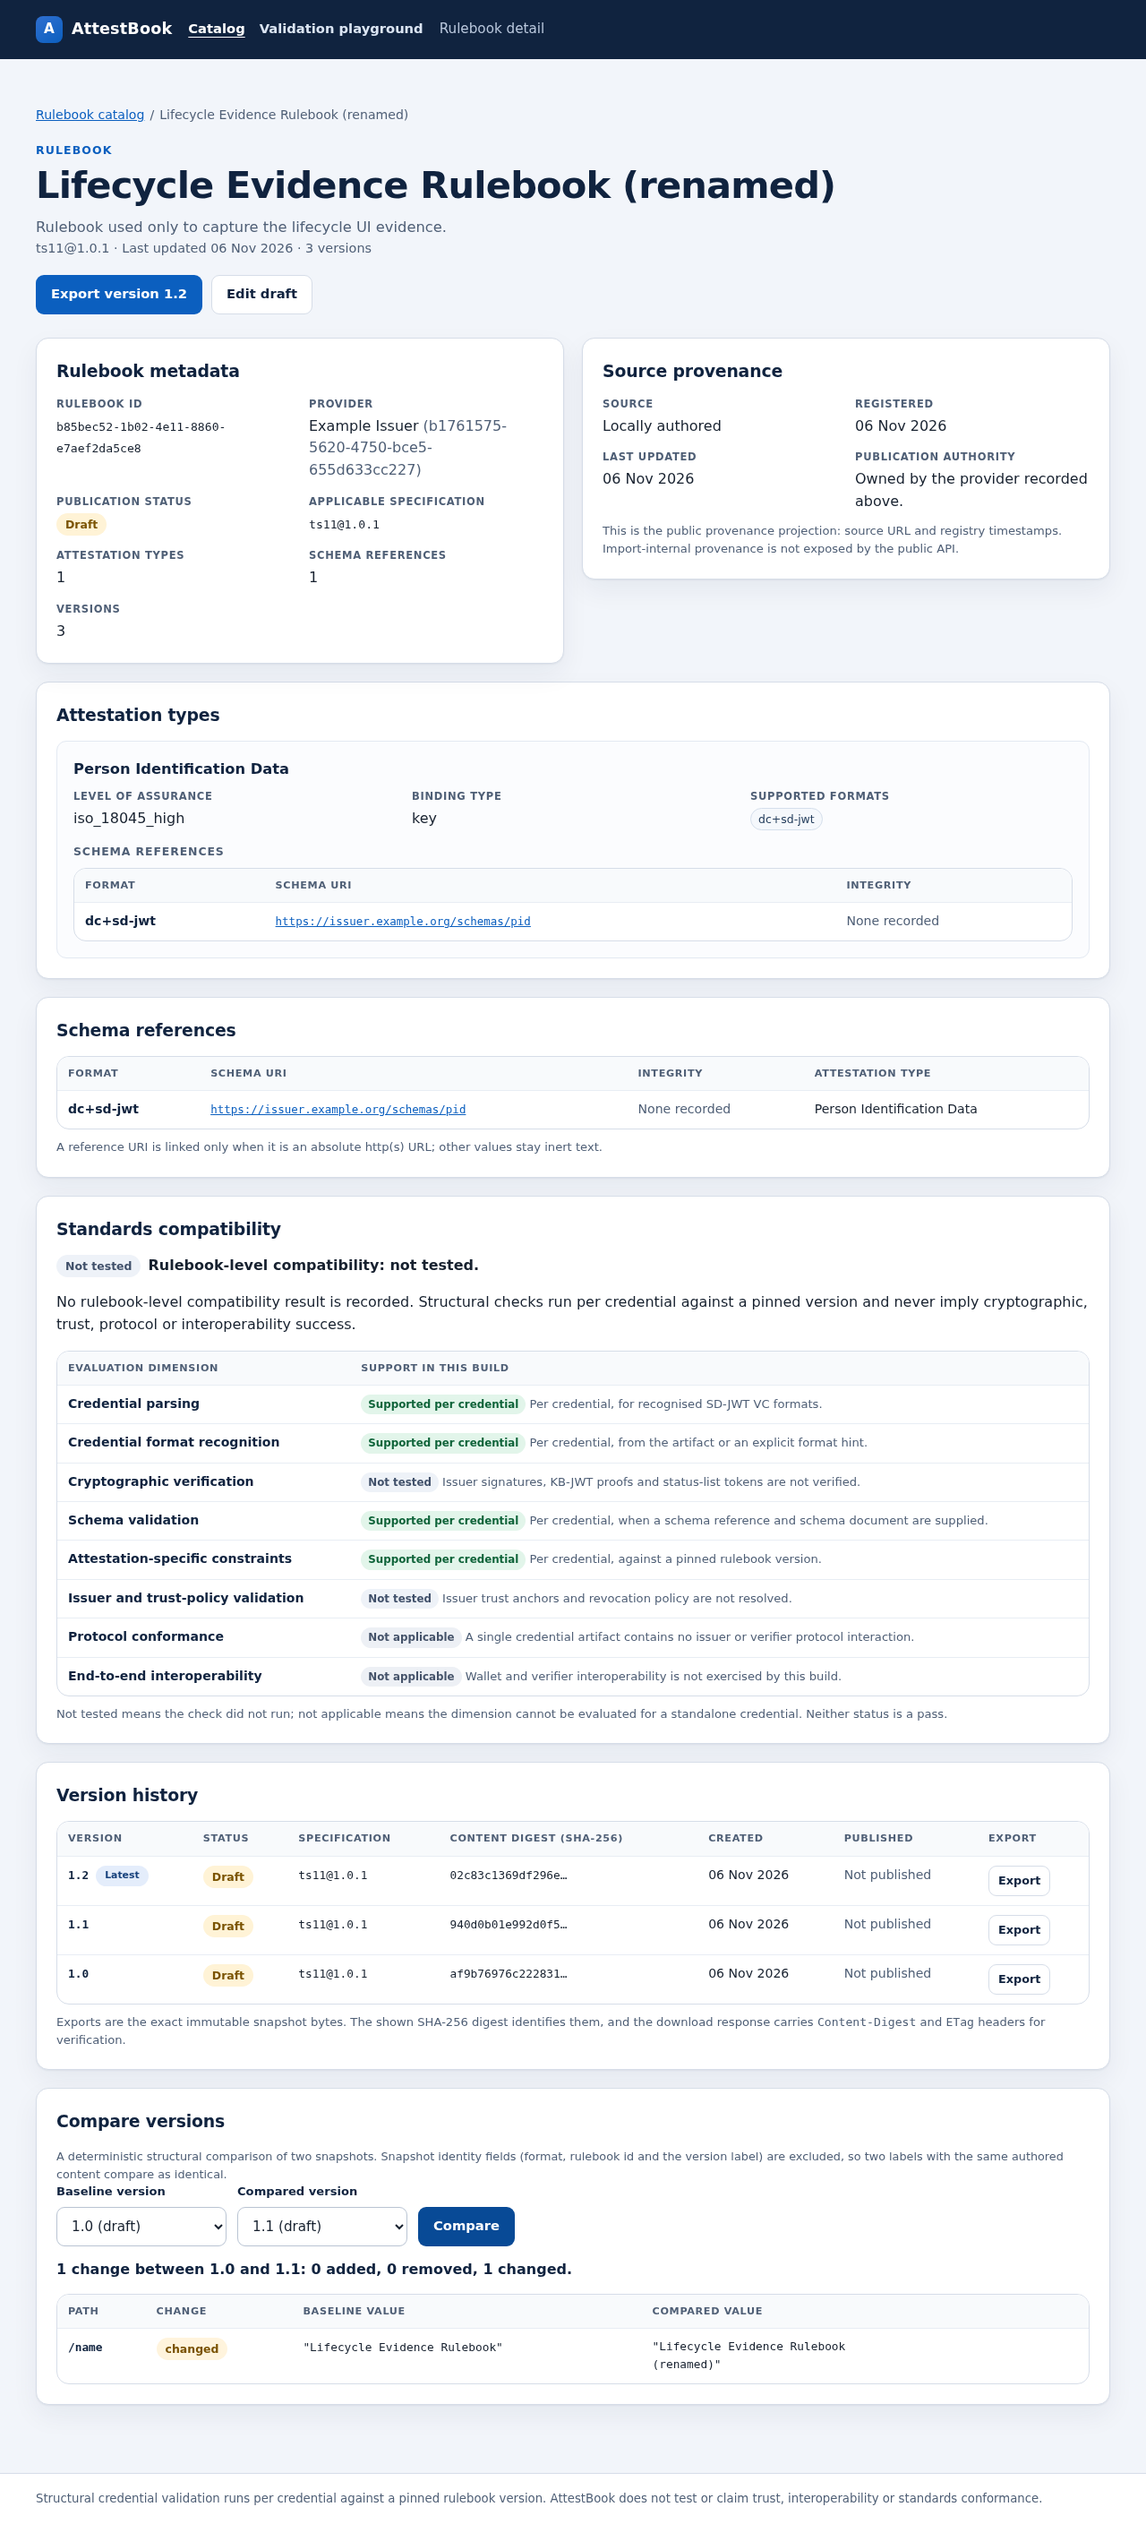
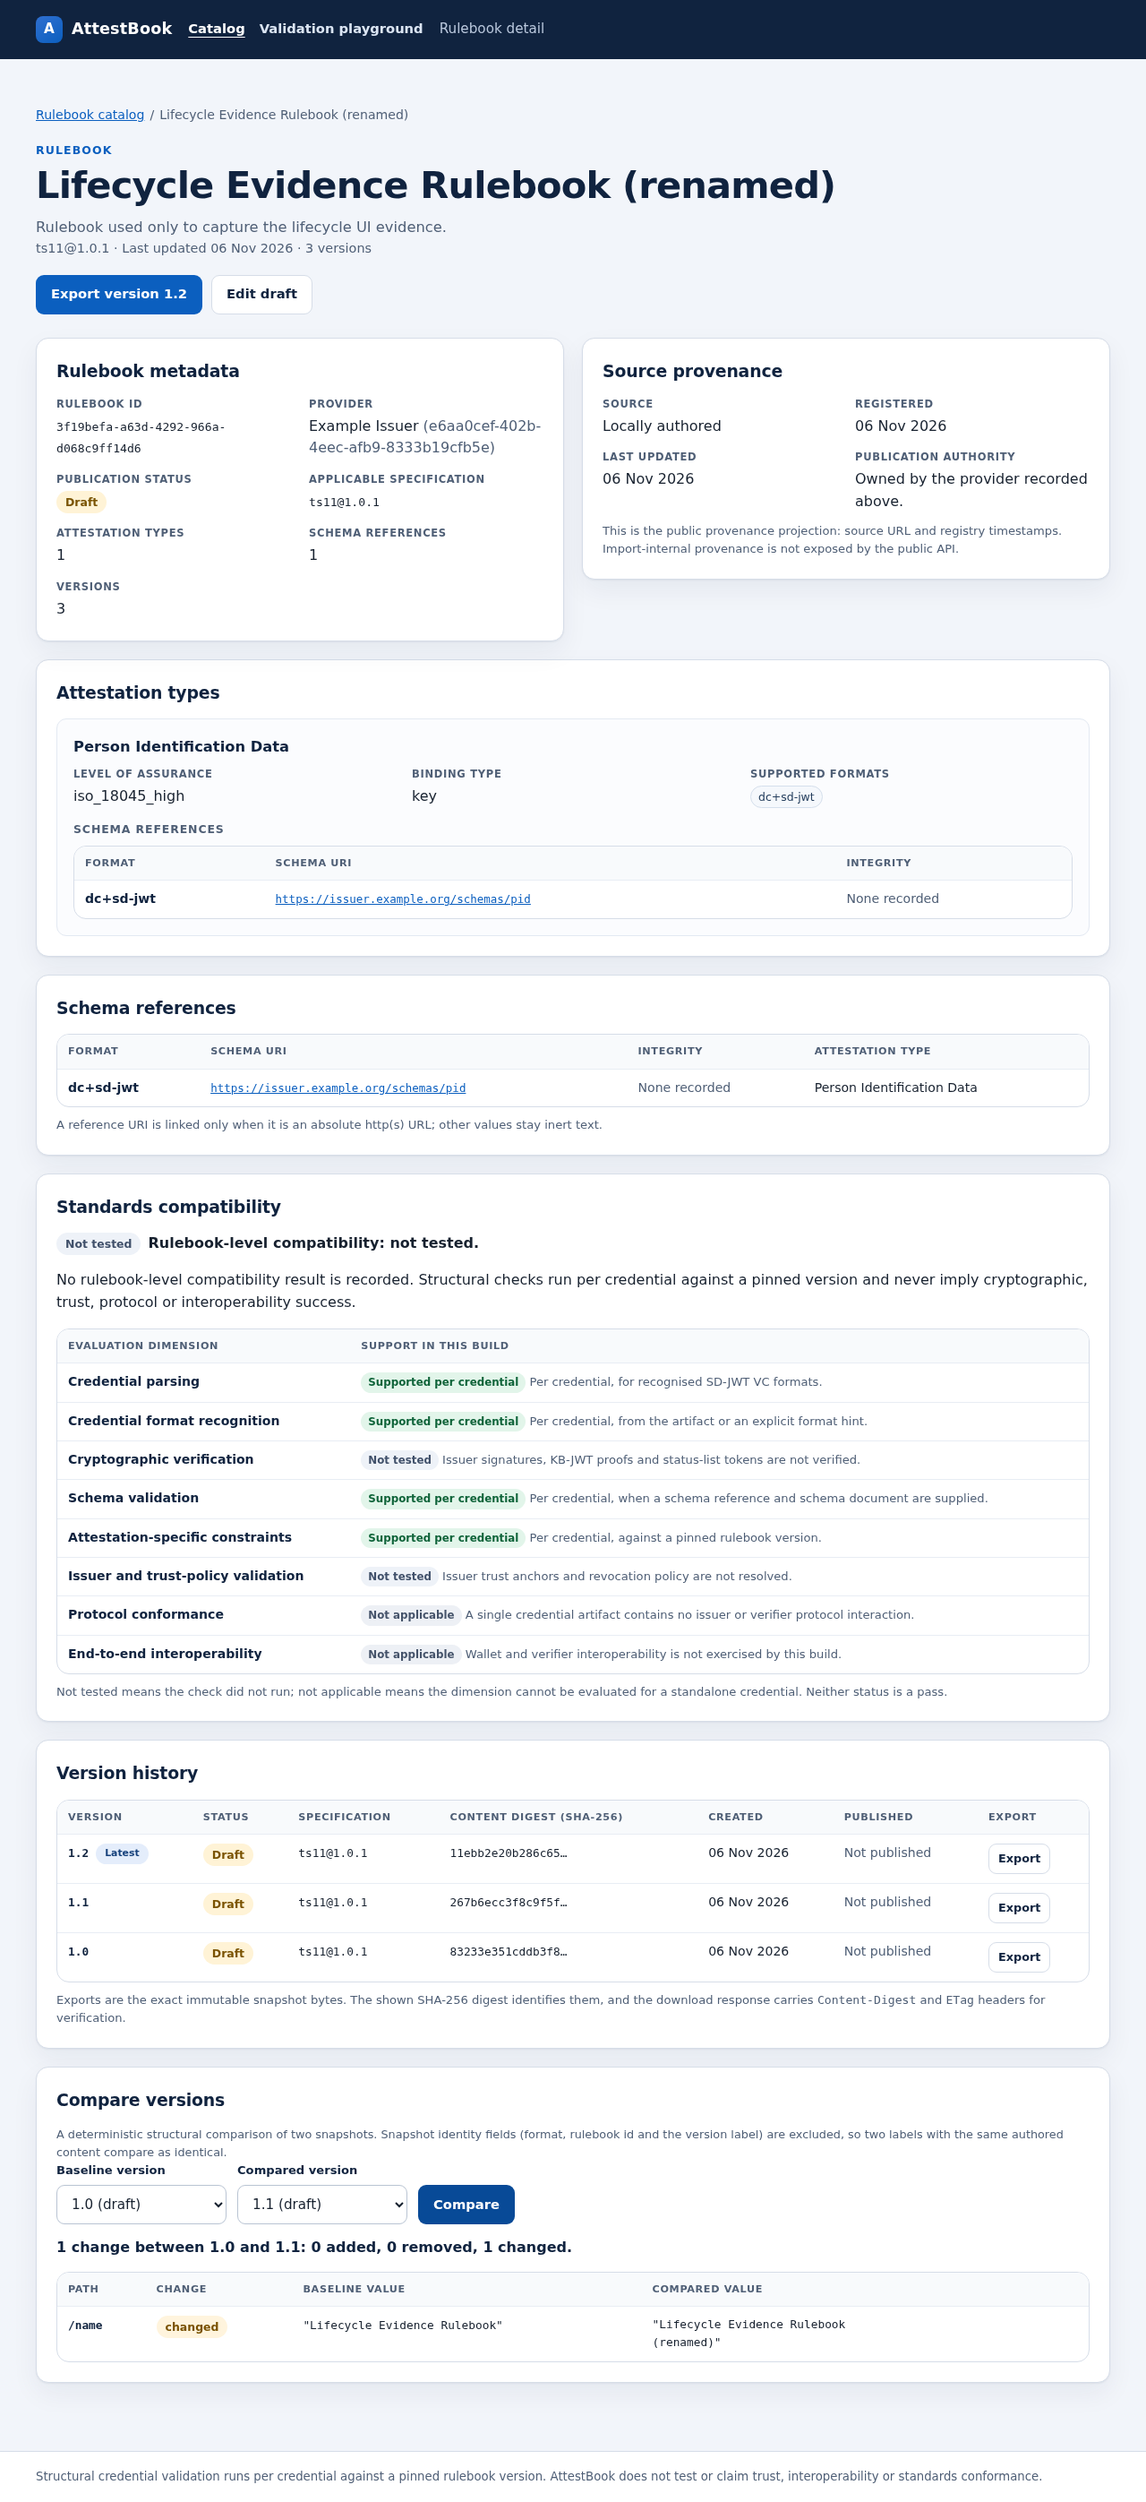
fix(lifecycle): align readiness with the publish transition
Readiness now receives the owning rulebook status and reports whether publish may run, using the same transition rule. The registry supplies the stored artifact and working-copy bytes exactly as publish builds them, removing the duplicated snapshot construction, and the leftover-draft-on-published-rulebook case is documented and tested.

diff --git a/src/api/lifecycle.test.ts b/src/api/lifecycle.test.ts
@@ -223,6 +223,7 @@ describe('publication readiness API', () => {
     expect(ready.data.ready).toBe(true)
     expect(ready.data.checks.map((check) => check.id)).toEqual([
       'draft_version',
+      'rulebook_status',
       'snapshot_integrity',
       'snapshot_current',
       'content_valid',
@@ -280,6 +281,67 @@ describe('publication readiness API', () => {
       token,
     )
     expect(missingVersion.status).toBe(404)
+  })
+})
+
+describe('readiness matches the publish transition', () => {
+  test('a leftover draft on a published rulebook is not ready and cannot be published', async () => {
+    const { app, registry, rulebookId, token } = setup()
+
+    const create = (version: string) =>
+      app.request(`/api/v1/rulebooks/${rulebookId}/versions`, {
+        method: 'POST',
+        headers: headers(token),
+        body: JSON.stringify({ version }),
+      })
+
+    expect((await create('1.1')).status).toBe(201)
+    const firstPublish = await postEmpty(
+      app,
+      `/api/v1/rulebooks/${rulebookId}/versions/1.1/publish`,
+      token,
+    )
+    expect(firstPublish.status).toBe(200)
+    expect(registry.getRulebook(rulebookId)?.publicationStatus).toBe('published')
+
+    const readiness = await app.request(
+      `/api/v1/rulebooks/${rulebookId}/versions/1.0/publication-readiness`,
+    )
+    expect(readiness.status).toBe(200)
+    const body = await json<{ data: PublicationReadinessResource }>(readiness)
+    assertSchema('PublicationReadinessResponse', body)
+    expect(body.data.ready).toBe(false)
+    const rulebookStatus = body.data.checks.find((check) => check.id === 'rulebook_status')
+    expect(rulebookStatus?.status).toBe('fail')
+    expect(
+      body.data.checks
+        .filter((check) => check.id !== 'rulebook_status')
+        .every((check) => check.status === 'pass'),
+    ).toBe(true)
+
+    const rejected = await postEmpty(
+      app,
+      `/api/v1/rulebooks/${rulebookId}/versions/1.0/publish`,
+      token,
+    )
+    expect(rejected.status).toBe(409)
+    expect((await errorJson(rejected)).error.code).toBe('immutable')
+    expect(registry.getRulebookVersion(rulebookId, '1.1')?.status).toBe('published')
+
+    // Creating the next version reopens the working copy; the leftover draft is
+    // then publishable again under the same transition policy.
+    expect((await create('1.2')).status).toBe(201)
+    const reopened = await app.request(
+      `/api/v1/rulebooks/${rulebookId}/versions/1.0/publication-readiness`,
+    )
+    expect((await json<{ data: PublicationReadinessResource }>(reopened)).data.ready).toBe(true)
+    const published = await postEmpty(
+      app,
+      `/api/v1/rulebooks/${rulebookId}/versions/1.0/publish`,
+      token,
+    )
+    expect(published.status).toBe(200)
+    expect(registry.getRulebookVersion(rulebookId, '1.1')?.status).toBe('historical')
   })
 })
 

diff --git a/src/api/routes.ts b/src/api/routes.ts
@@ -20,11 +20,7 @@ import type {
   CreateRulebookVersionInput,
   ReplaceDraftContentInput,
 } from '../registry/types'
-import {
-  buildRulebookVersionDocument,
-  parseRulebookVersionDocument,
-  serializeRulebookVersion,
-} from '../registry/versioning'
+import { parseRulebookVersionDocument } from '../registry/versioning'
 import { CREDENTIAL_VALIDATION_PATH, type CredentialValidationService } from '../validation'
 
 import { apiError } from './errors'
@@ -1199,25 +1195,16 @@ function getRulebookPublicationReadinessHandler(dependencies: ApiDependencies): 
     const registry = requireRegistry(dependencies)
     const rulebookId = context.req.param('rulebookId') ?? ''
     const label = context.req.param('version') ?? ''
-    const content = registry.getRulebookVersionContent(rulebookId, label)
-    if (content === null) {
+    // The registry builds the stored artifact and the current working-copy
+    // bytes exactly as publish does, so readiness cannot drift from publication.
+    const candidate = registry.getPublicationCandidate(rulebookId, label)
+    if (candidate === null) {
       throw apiError(404, 'not_found', 'The requested rulebook version does not exist.')
     }
-
-    // The current working copy is serialized exactly as a new snapshot would
-    // be, under the same label, so the freshness check compares like with like.
-    const draft = registry.getDraftContent(rulebookId)
-    const currentBytes = serializeRulebookVersion(
-      buildRulebookVersionDocument({
-        rulebook: draft.rulebook,
-        version: content.version.version,
-        specVersion: draft.rulebook.applicableSpec,
-        attestations: draft.attestations,
-        schemaReferences: draft.schemaReferences,
-      }),
-    )
+    const { rulebook, content, currentBytes } = candidate
     const readiness = assessPublicationReadiness({
       version: content.version,
+      rulebookStatus: rulebook.publicationStatus,
       bytes: content.bytes,
       currentBytes,
       document: parseRulebookVersionDocument(content.bytes),

diff --git a/src/lifecycle/readiness.ts b/src/lifecycle/readiness.ts
@@ -18,7 +18,8 @@
 
 import { validateDraftContent } from '../editor'
 import { sha256Hex } from '../registry/digest'
-import type { RulebookVersion } from '../registry/types'
+import { isRulebookTransitionAllowed } from '../registry/transitions'
+import type { PublicationStatus, RulebookVersion } from '../registry/types'
 import type { RulebookVersionDocument } from '../registry/versioning'
 
 export const PUBLICATION_READINESS_CHECK_STATUSES = [
@@ -32,6 +33,7 @@ export type PublicationReadinessCheckStatus = (typeof PUBLICATION_READINESS_CHEC
 /** Stable check identifiers of the readiness contract. */
 export const PUBLICATION_READINESS_CHECK_IDS = [
   'draft_version',
+  'rulebook_status',
   'snapshot_integrity',
   'snapshot_current',
   'content_valid',
@@ -56,6 +58,8 @@ export interface PublicationReadiness {
 
 export interface PublicationReadinessInput {
   readonly version: RulebookVersion
+  /** Current working-copy status of the rulebook that owns the version. */
+  readonly rulebookStatus: PublicationStatus
   /** Exact stored snapshot bytes of the version. */
   readonly bytes: Uint8Array
   /** Snapshot bytes the current working copy would freeze under this label. */
@@ -100,6 +104,18 @@ export function assessPublicationReadiness(input: PublicationReadinessInput): Pu
           'draft_version',
           'fail',
           `The version is ${version.status}; only a draft version can be published, and published or historical artifacts are immutable.`,
+        ),
+  )
+
+  checks.push(
+    isRulebookTransitionAllowed(input.rulebookStatus, 'published')
+      ? check('rulebook_status', 'pass', 'The rulebook working copy can be published.')
+      : check(
+          'rulebook_status',
+          'fail',
+          input.rulebookStatus === 'published'
+            ? 'The rulebook is already published; create the next draft version before publishing another draft.'
+            : `The rulebook is ${input.rulebookStatus}; its versions cannot be published.`,
         ),
   )
 

diff --git a/src/lifecycle/readiness.test.ts b/src/lifecycle/readiness.test.ts
@@ -7,7 +7,7 @@
 import { describe, expect, test } from 'bun:test'
 
 import { sha256Hex } from '../registry/digest'
-import type { RulebookVersion } from '../registry/types'
+import type { PublicationStatus, RulebookVersion } from '../registry/types'
 import { serializeRulebookVersion, type RulebookVersionDocument } from '../registry/versioning'
 
 import { assessPublicationReadiness } from './readiness'
@@ -64,10 +64,12 @@ function assess(
   options: {
     readonly version?: Partial<RulebookVersion>
     readonly current?: RulebookVersionDocument
+    readonly rulebookStatus?: PublicationStatus
   } = {},
 ) {
   return assessPublicationReadiness({
     version: record(document, options.version),
+    rulebookStatus: options.rulebookStatus ?? 'draft',
     bytes: serializeRulebookVersion(document),
     currentBytes: serializeRulebookVersion(options.current ?? document),
     document,
@@ -93,8 +95,19 @@ describe('publication readiness', () => {
       'pass',
       'pass',
       'pass',
+      'pass',
     ])
     expect(result.limitations.length).toBeGreaterThan(0)
+  })
+
+  test('a draft on an already-published rulebook is not ready', () => {
+    for (const status of ['published', 'historical'] as const) {
+      const result = assess(snapshot(), { rulebookStatus: status })
+
+      expect(result.ready).toBe(false)
+      expect(statusOf(result, 'rulebook_status')).toBe('fail')
+      expect(result.checks.filter((check) => check.status === 'fail')).toHaveLength(1)
+    }
   })
 
   test('a stale draft snapshot blocks publication until it is refreshed', () => {
@@ -121,6 +134,7 @@ describe('publication readiness', () => {
     const document = snapshot()
     const result = assessPublicationReadiness({
       version: record(document, { contentDigest: 'f'.repeat(64) }),
+      rulebookStatus: 'draft',
       bytes: serializeRulebookVersion(document),
       currentBytes: serializeRulebookVersion(document),
       document,

diff --git a/ui/src/RulebookDraftEditorPage.test.tsx b/ui/src/RulebookDraftEditorPage.test.tsx
@@ -311,6 +311,42 @@ describe('rulebook draft editor', () => {
     expect(screen.getByText('This rulebook is published.')).toBeVisible()
   })
 
+  test('keeps publish disabled when the readiness rulebook-status check fails', async () => {
+    const api = editor({
+      getPublicationReadiness: vi.fn(async () =>
+        readiness({
+          ready: false,
+          checks: [
+            {
+              id: 'rulebook_status',
+              status: 'fail',
+              message:
+                'The rulebook is already published; create the next draft version before publishing another draft.',
+            },
+          ],
+        }),
+      ),
+    })
+    const user = userEvent.setup()
+    renderEditor(api, { rulebookId: DRAFT.id, token: 'att_secret' })
+
+    await screen.findByRole('heading', { name: 'Edit PID Rulebook draft' })
+    const lifecycle = await screen.findByRole('region', {
+      name: 'Draft lifecycle and publication',
+    })
+    await user.click(within(lifecycle).getByRole('button', { name: 'Check readiness' }))
+
+    expect(
+      await within(lifecycle).findByText(/Not ready to publish: resolve the failed checks first/),
+    ).toBeVisible()
+    expect(
+      within(lifecycle).getByText(
+        'The rulebook is already published; create the next draft version before publishing another draft.',
+      ),
+    ).toBeVisible()
+    expect(within(lifecycle).getByRole('button', { name: 'Publish' })).toBeDisabled()
+  })
+
   test('freezes the working copy under a typed version label', async () => {
     const api = editor({ listVersions: vi.fn(async () => []) })
     const user = userEvent.setup()

diff --git a/src/registry/versions.test.ts b/src/registry/versions.test.ts
@@ -446,6 +446,28 @@ describe('publication lifecycle and immutability', () => {
     ).toThrow(/immutable/i)
   })
 
+  test('rejects publishing a leftover draft while the rulebook is published', () => {
+    const { registry } = setup()
+    const { token } = provision('a')
+    const rulebook = createSeedRulebook(registry, token.secret)
+    registry.createRulebookVersion(token.secret, rulebook.id, { version: '1.0' })
+    registry.createRulebookVersion(token.secret, rulebook.id, { version: '1.1' })
+    registry.publishRulebookVersion(token.secret, rulebook.id, '1.1')
+
+    expectRegistryError(
+      () => registry.publishRulebookVersion(token.secret, rulebook.id, '1.0'),
+      'immutable',
+    )
+    expect(registry.getRulebookVersion(rulebook.id, '1.1')?.status).toBe('published')
+
+    // Creating the next version reopens the working copy; only then can the
+    // leftover draft transition to published.
+    registry.createRulebookVersion(token.secret, rulebook.id, { version: '1.2' })
+    const published = registry.publishRulebookVersion(token.secret, rulebook.id, '1.0')
+    expect(published.status).toBe('published')
+    expect(registry.getRulebookVersion(rulebook.id, '1.1')?.status).toBe('historical')
+  })
+
   test('publishing a newer version supersedes the previous one and reopens the rulebook', () => {
     const { registry } = setup()
     const { token } = provision('a')

diff --git a/src/registry/registry.ts b/src/registry/registry.ts
@@ -989,6 +989,37 @@ export class Registry {
   }
 
   /**
+   * Inputs for a publication-readiness assessment, built exactly as
+   * `publishRulebookVersion` builds them: the stored artifact, the rulebook
+   * that owns it and the bytes the current working copy would freeze under the
+   * same label. Readiness and publication therefore read the same state and
+   * cannot disagree about what publish would do.
+   */
+  getPublicationCandidate(
+    rulebookId: string,
+    version: string,
+  ): {
+    readonly rulebook: Rulebook
+    readonly content: RulebookVersionContent
+    readonly currentBytes: Uint8Array
+  } | null {
+    const content = this.getRulebookVersionContent(rulebookId, version)
+    if (content === null) {
+      return null
+    }
+    const rulebook = this.requireRulebook(content.version.rulebookId)
+    return {
+      rulebook,
+      content,
+      currentBytes: this.buildVersionBytes(
+        rulebook,
+        content.version.version,
+        rulebook.applicableSpec,
+      ),
+    }
+  }
+
+  /**
    * Freezes the rulebook's current draft content as a new draft version. When
    * the rulebook was published, this reopens the working copy for the next
    * version; every already-published version stays immutable.

diff --git a/src/api/schemas.ts b/src/api/schemas.ts
@@ -195,6 +195,7 @@ export const PUBLICATION_READINESS_CHECK_STATUS_SCHEMA = z.enum([
 export const publicationReadinessCheckSchema = z.object({
   id: z.enum([
     'draft_version',
+    'rulebook_status',
     'snapshot_integrity',
     'snapshot_current',
     'content_valid',

diff --git a/ui/src/types.ts b/ui/src/types.ts
@@ -106,6 +106,7 @@ export type PublicationReadinessCheckStatus = 'pass' | 'fail' | 'warn' | 'not_ap
 
 export type PublicationReadinessCheckId =
   | 'draft_version'
+  | 'rulebook_status'
   | 'snapshot_integrity'
   | 'snapshot_current'
   | 'content_valid'

diff --git a/docs/api.md b/docs/api.md
@@ -226,6 +226,7 @@ individually:
 | Check | Meaning |
 | --- | --- |
 | `draft_version` | Only a `draft` version can be published; published and historical artifacts are immutable. |
+| `rulebook_status` | The rulebook working copy may move to `published`. A leftover draft on an already-published rulebook is not publishable until the next draft version reopens the working copy; a historical rulebook never is. |
 | `snapshot_integrity` | The stored bytes still hash to the recorded SHA-256 digest. |
 | `snapshot_current` | The draft snapshot still matches the current working copy; a stale draft must be refreshed. |
 | `content_valid` | The snapshot content passes the same structural and TS11 v1.0.1 standards validation the editor runs. |
@@ -237,6 +238,11 @@ individually:
 verified by these checks, and the assessment makes no TS11 or ETSI conformance claim.
 Readiness is advisory for direct API callers; `POST .../publish` remains the authoritative
 transition and still rejects a stale snapshot with `409 conflict`.
+
+The rulebook-status check mirrors the publish transition exactly: a draft version cannot be
+published while its rulebook is `published` (it answers `409 immutable`) or `historical`.
+Creating the next version returns a `published` rulebook to `draft`, after which a leftover
+draft version can be published and supersedes the current published version.
 
 ## 4. Errors
 

diff --git a/docs/registry.md b/docs/registry.md
@@ -59,9 +59,12 @@ Implemented by #41:
   excluded, object keys are visited in sorted order and changes are JSON Pointer paths sorted
   by path;
 - `lifecycle/readiness.ts`: publication-readiness checks over the stored bytes, the current
-  working copy and the snapshot content (draft state, digest integrity, staleness, structural
-  and TS11 v1.0.1 validation, profile coverage and attestation types), with explicit
-  limitations and no conformance claim;
+  working copy, the snapshot content and the owning rulebook's status (draft state, rulebook
+  transition, digest integrity, staleness, structural and TS11 v1.0.1 validation, profile
+  coverage and attestation types), with explicit limitations and no conformance claim. The
+  registry supplies the same candidate inputs publish uses, so readiness and publication
+  cannot disagree; a draft version left on a `published` rulebook is not publishable until
+  the next version reopens the working copy;
 - `Registry.refreshDraftRulebookVersion` is exposed over the API: a draft snapshot can be
   re-taken from the current working copy, while a published or historical version stays
   immutable.
